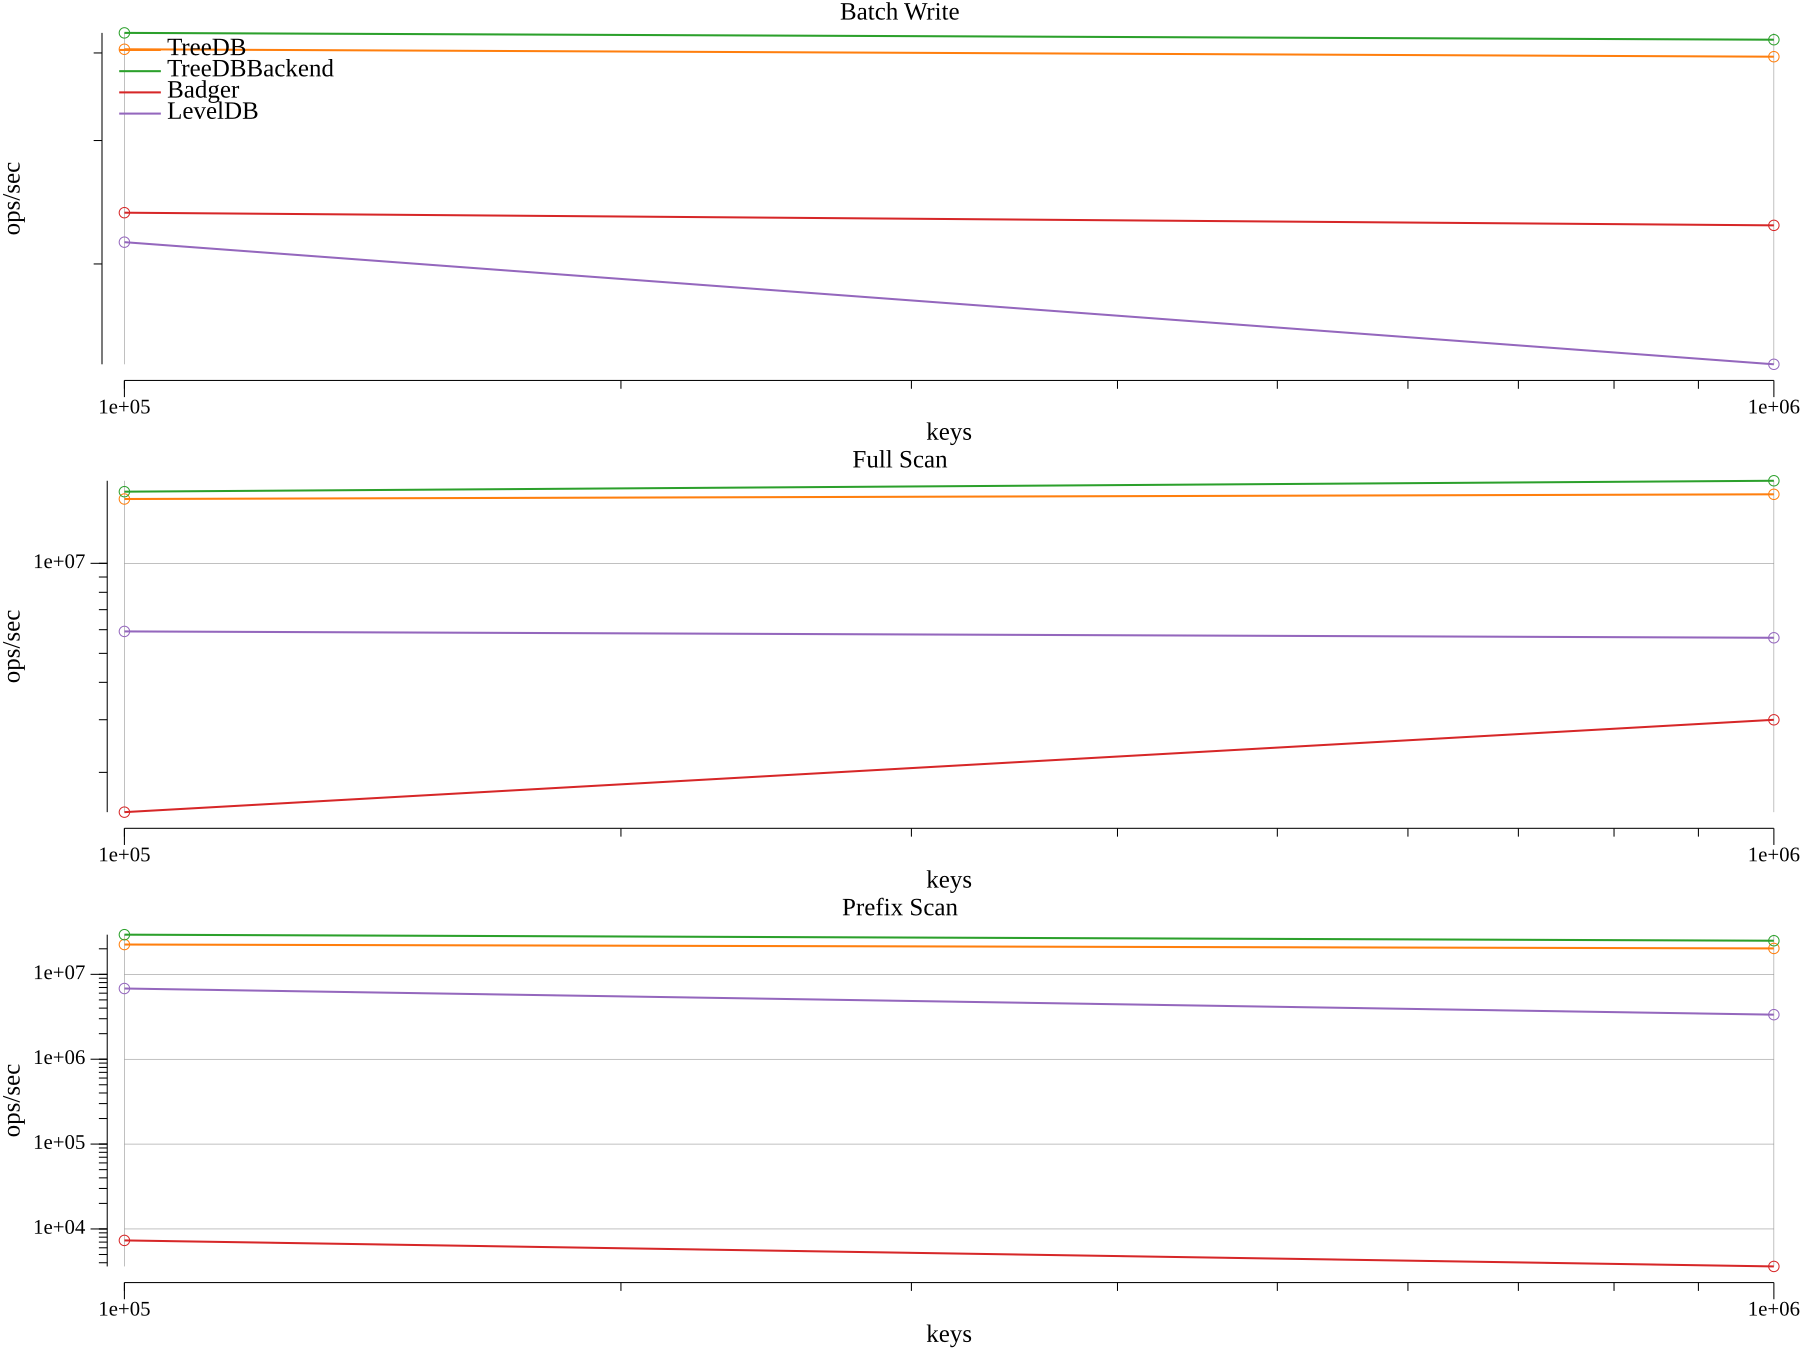
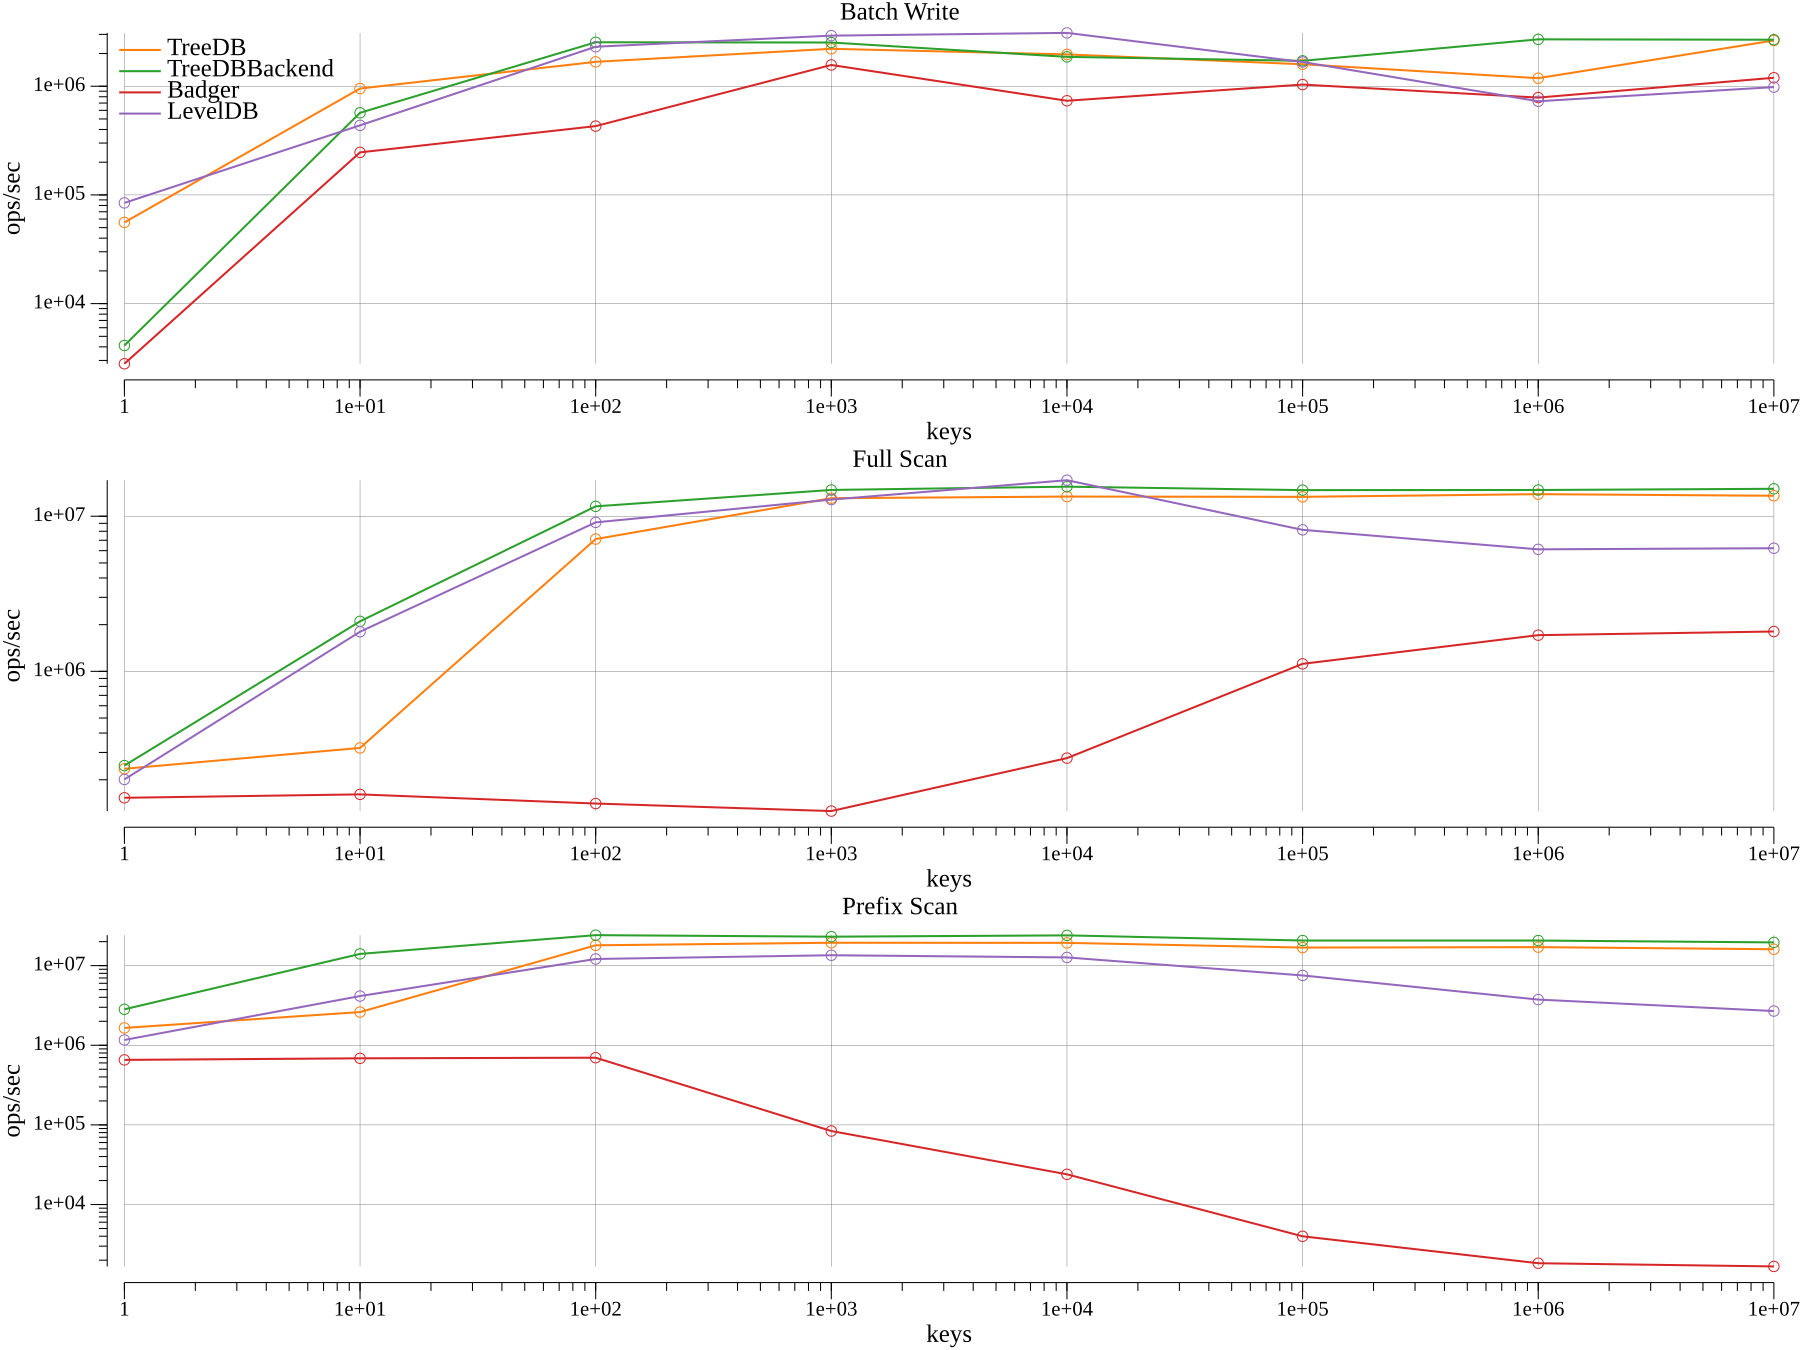
update readme

diff --git a/README.md b/README.md
@@ -48,15 +48,15 @@ More details:
 <!-- BENCHMARK_START -->
 _Generated by `go run ./cmd/unified_bench -suite readme -format markdown`._
 
-_Generated at:_ 2025-12-14T22:45:29Z
-_Environment:_ darwin/arm64 | Go go1.25.5 | CPUs 8 | RAM 16 GiB | CPU Apple M3 | Model Mac15,13
+_Generated at:_ 2025-12-15T01:53:50Z
+_Environment:_ linux/amd64 | Go go1.25.5 | CPUs 12 | RAM 31.2 GiB | CPU 11th Gen Intel(R) Core(TM) i5-11400F @ 2.60GHz | Model B560 DS3H AC-Y1
 _Seed:_ 1
 
-_Key counts:_ 100,000…1,000,000 (valsize=128, batchsize=1000, range-queries=200, range-span=100)
+_Key counts:_ 1…10,000,000 (valsize=128, batchsize=1000, range-queries=200, range-span=100)
 
 Notes:
 - Results depend on hardware and OS.
-- `TreeDBBackend` (uncached) point ops are shown only at 100,000 keys (baseline) and excluded from larger sweeps.
+- `TreeDBBackend` (uncached) point ops are shown only at 1 keys (baseline) and excluded from larger sweeps.
 - `HashDB` does not support ordered scans.
 
 ### Graphs
@@ -67,64 +67,100 @@ Notes:
 
 ### Point Ops (writes + gets)
 
-_Key counts:_ 100,000, 1,000,000
+_Key counts:_ 1, 10, 100, 1,000, 10,000, 100,000, 1,000,000, 10,000,000
 
 #### Sequential Write
 
 | keys | HashDB | TreeDB | Badger | LevelDB |
 |---:|---:|---:|---:|---:|
-| 100,000 | **9,351,038** | 2,701,963 | 214,372 | 451,871 |
-| 1,000,000 | 1,661,118 | **2,477,002** | 201,821 | 412,725 |
+| 1 | **236,518** | 140,766 | 43,193 | 76,150 |
+| 10 | **2,093,364** | 967,867 | 94,452 | 310,395 |
+| 100 | **4,395,798** | 2,234,687 | 146,082 | 686,304 |
+| 1,000 | **6,937,651** | 2,592,514 | 181,558 | 782,902 |
+| 10,000 | **7,146,175** | 2,330,235 | 187,026 | 740,124 |
+| 100,000 | **6,560,059** | 1,651,833 | 180,098 | 754,963 |
+| 1,000,000 | **2,014,965** | 1,550,381 | 174,157 | 764,416 |
+| 10,000,000 | 1,089,159 | **1,751,893** | 176,207 | 767,026 |
 
 #### Random Write
 
 | keys | HashDB | TreeDB | Badger | LevelDB |
 |---:|---:|---:|---:|---:|
-| 100,000 | **10,005,045** | 1,948,022 | 192,141 | 392,924 |
-| 1,000,000 | 948,981 | **1,552,646** | 153,491 | 212,323 |
+| 1 | **1,763,668** | 687,285 | 100,654 | 331,565 |
+| 10 | **5,042,864** | 2,062,706 | 131,919 | 527,983 |
+| 100 | **6,069,066** | 2,313,690 | 156,522 | 695,444 |
+| 1,000 | **7,835,271** | 2,227,658 | 186,064 | 741,171 |
+| 10,000 | **5,597,534** | 1,597,826 | 161,102 | 608,577 |
+| 100,000 | **5,759,402** | 1,264,022 | 152,935 | 532,780 |
+| 1,000,000 | 1,068,968 | **1,265,520** | 140,782 | 290,225 |
+| 10,000,000 | 542,026 | **1,223,304** | 125,663 | 52,353 |
 
 #### Random Read
 
 | keys | HashDB | TreeDB | Badger | LevelDB |
 |---:|---:|---:|---:|---:|
-| 100,000 | 853,169 | **2,770,112** | 877,357 | 377,813 |
-| 1,000,000 | 512,434 | **1,505,407** | 200,814 | 176,547 |
+| 1 | 2,092,050 | **2,380,952** | 447,628 | 668,003 |
+| 10 | 7,739,938 | **11,695,906** | 393,329 | 1,502,630 |
+| 100 | 11,603,620 | **17,630,465** | 1,026,842 | 2,339,674 |
+| 1,000 | 9,063,554 | **13,176,099** | 930,993 | 2,126,040 |
+| 10,000 | 3,886,736 | **9,719,155** | 680,662 | 1,315,836 |
+| 100,000 | 776,732 | **2,020,464** | 565,312 | 332,953 |
+| 1,000,000 | 509,428 | **1,306,959** | 165,806 | 230,327 |
+| 10,000,000 | 283,664 | **962,027** | 120,607 | 44,019 |
 
 
 ### TreeDBBackend baseline (point ops)
 
-_Key count:_ 100,000
+_Key count:_ 1
 
 | Test | TreeDBBackend |
 |---|---:|
-| Sequential Write | 87,866 |
-| Random Write | 61,295 |
-| Random Read | 2,671,660 |
+| Sequential Write | 98,990 |
+| Random Write | 234,907 |
+| Random Read | 442,087 |
 
 ### Batch + Scans
 
-_Key counts:_ 100,000, 1,000,000
+_Key counts:_ 1, 10, 100, 1,000, 10,000, 100,000, 1,000,000, 10,000,000
 
 #### Batch Write
 
 | keys | TreeDB | TreeDBBackend | Badger | LevelDB |
 |---:|---:|---:|---:|---:|
-| 100,000 | 4,048,603 | **4,272,485** | 2,366,822 | 2,148,358 |
-| 1,000,000 | 3,951,030 | **4,177,843** | 2,270,378 | 1,438,421 |
+| 1 | 55,835 | 4,120 | 2,796 | **84,417** |
+| 10 | **952,290** | 569,638 | 246,305 | 436,643 |
+| 100 | 1,676,193 | **2,538,007** | 429,479 | 2,309,042 |
+| 1,000 | 2,209,398 | 2,524,902 | 1,569,088 | **2,920,689** |
+| 10,000 | 1,961,574 | 1,862,558 | 734,944 | **3,095,348** |
+| 100,000 | 1,593,143 | **1,712,372** | 1,035,616 | 1,670,971 |
+| 1,000,000 | 1,185,621 | **2,699,995** | 785,725 | 727,187 |
+| 10,000,000 | 2,634,954 | **2,677,340** | 1,196,140 | 981,498 |
 
 #### Full Scan
 
 | keys | TreeDB | TreeDBBackend | Badger | LevelDB |
 |---:|---:|---:|---:|---:|
-| 100,000 | 16,407,738 | **17,359,354** | 1,472,385 | 5,919,933 |
-| 1,000,000 | 17,012,946 | **18,883,943** | 2,998,123 | 5,637,380 |
+| 1 | 235,349 | **246,792** | 152,999 | 200,884 |
+| 10 | 320,718 | **2,100,840** | 160,927 | 1,800,180 |
+| 100 | 7,125,155 | **11,582,117** | 140,469 | 9,129,085 |
+| 1,000 | 13,068,281 | **14,773,013** | 125,628 | 12,802,458 |
+| 10,000 | 13,390,100 | 15,511,668 | 275,710 | **17,072,188** |
+| 100,000 | 13,338,735 | **14,736,617** | 1,117,793 | 8,170,648 |
+| 1,000,000 | 13,880,422 | **14,764,684** | 1,711,072 | 6,117,082 |
+| 10,000,000 | 13,551,605 | **15,024,842** | 1,806,149 | 6,219,001 |
 
 #### Prefix Scan
 
 | keys | TreeDB | TreeDBBackend | Badger | LevelDB |
 |---:|---:|---:|---:|---:|
-| 100,000 | 22,451,638 | **29,341,413** | 7,327 | 6,807,931 |
-| 1,000,000 | 20,194,359 | **24,887,304** | 3,618 | 3,347,981 |
+| 1 | 1,650,219 | **2,828,414** | 654,982 | 1,165,528 |
+| 10 | 2,610,148 | **14,030,657** | 685,331 | 4,148,243 |
+| 100 | 17,993,745 | **24,136,920** | 697,455 | 12,118,761 |
+| 1,000 | 19,367,083 | **23,093,598** | 83,765 | 13,497,889 |
+| 10,000 | 19,305,498 | **23,989,345** | 23,953 | 12,676,504 |
+| 100,000 | 16,854,672 | **20,658,782** | 3,988 | 7,529,177 |
+| 1,000,000 | 17,067,646 | **20,656,221** | 1,832 | 3,747,276 |
+| 10,000,000 | 16,059,763 | **19,573,052** | 1,670 | 2,689,726 |
 
 
 ### Quick takeaways
